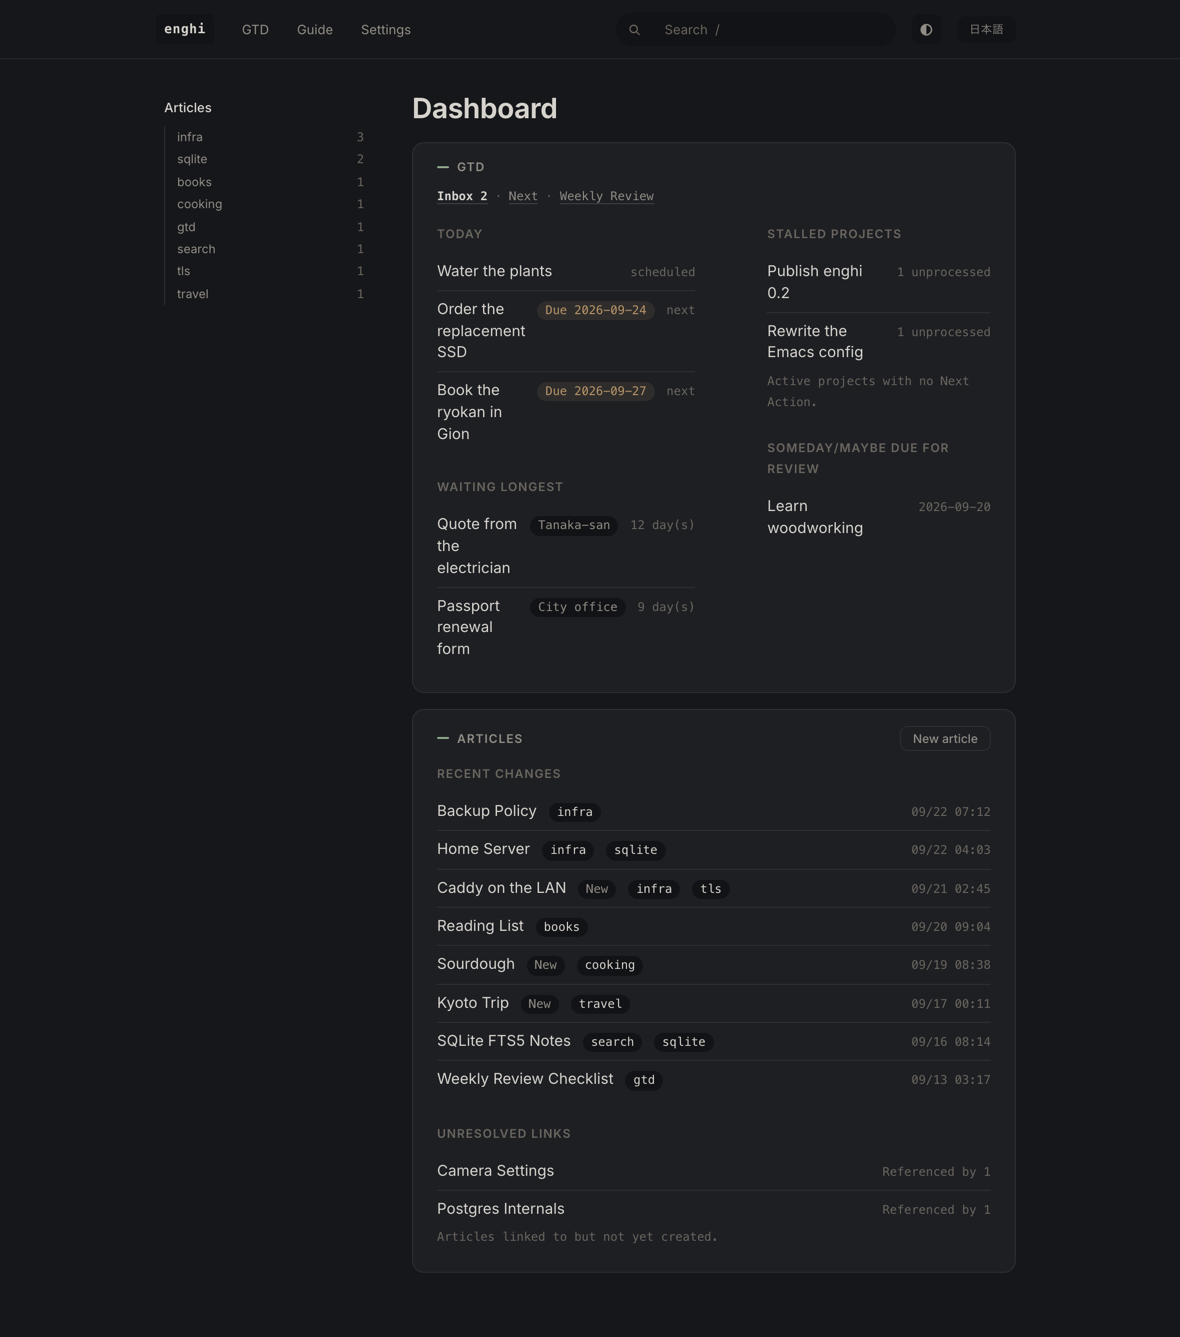
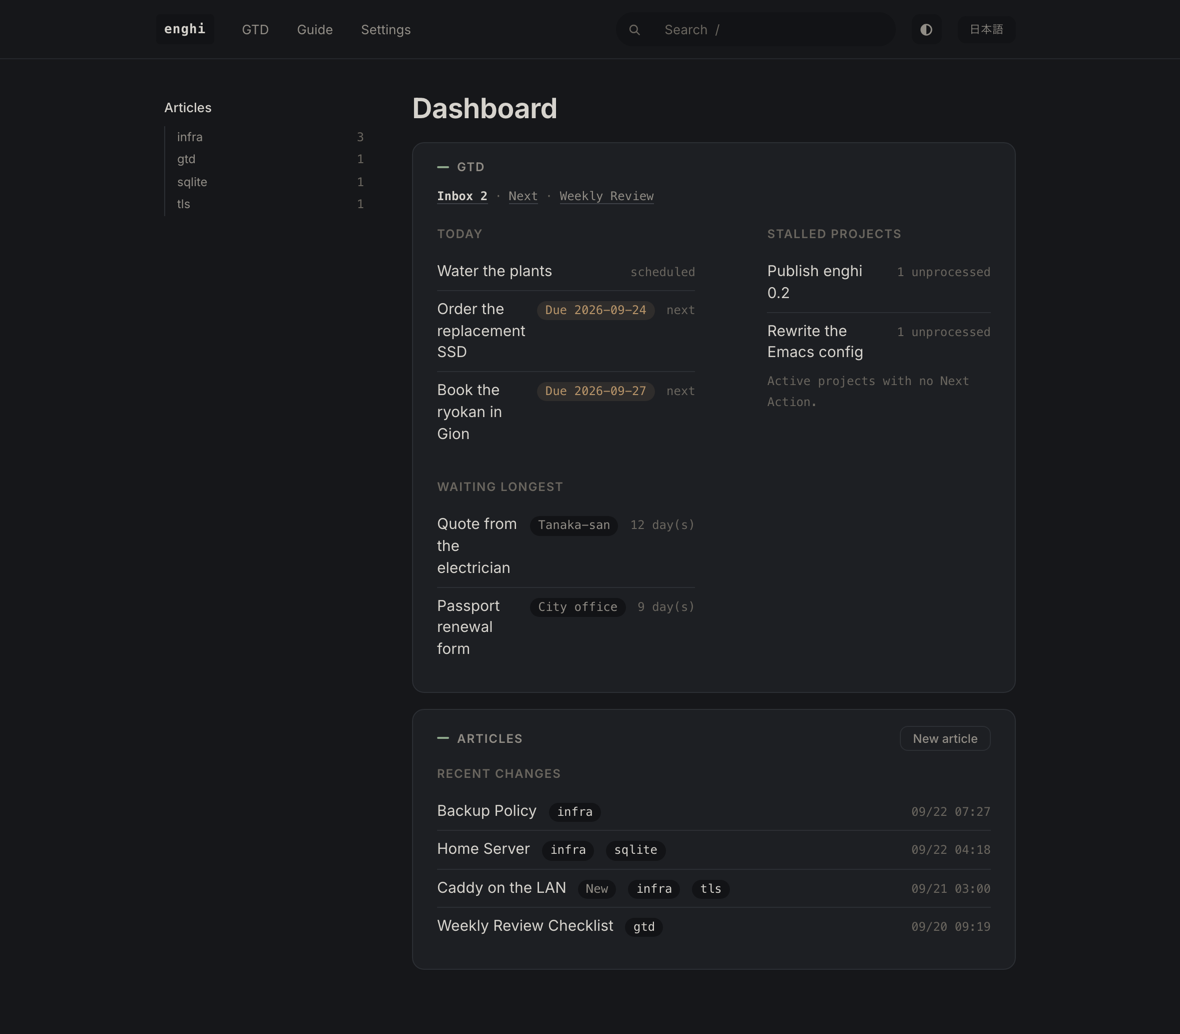
Dashboard: leave someday reviews to the review screen
A someday project whose review date has come is not something to act on
today - it is a weekly review item, and /gtd/review already lists it
from the same query. On the dashboard it only sat there between
reviews, so the block goes, and with it the field and the query behind
it. The dashboard now reads as today's work on the left, what is
rotting on the right.

The README screenshots are retaken with a smaller wiki, so the recent
changes list stays a glance rather than a list.

diff --git a/web/templates/dashboard.html b/web/templates/dashboard.html
@@ -62,18 +62,6 @@
           <div class="meta">{{t "dash.stalled_note"}}</div>
           {{else}}<div class="empty">{{t "common.empty"}}</div>{{end}}
         </div>
-
-        {{if $d.GTD.SomedayDueReview}}
-        <div class="col-block">
-          <div class="subhead">{{t "dash.someday_due"}}</div>
-          <ul class="rows">
-            {{range $d.GTD.SomedayDueReview}}
-            <li><a href="/gtd/project/{{.ID}}">{{.Title}}</a>
-                <span class="when">{{.ReviewOn}}</span></li>
-            {{end}}
-          </ul>
-        </div>
-        {{end}}
       </div>
     </div>
   {{else}}

diff --git a/internal/web/dashboard.go b/internal/web/dashboard.go
@@ -28,8 +28,6 @@ type GTDSummary struct {
 	StalledProjects []*gtd.Project `json:"stalled_projects"`
 	// 5. Waiting-for items delegated more than a few days ago (7 by default)
 	WaitingOverdue []*gtd.Task `json:"waiting_overdue"`
-	// 6. Someday projects whose review date has come
-	SomedayDueReview []*gtd.Project `json:"someday_due_review"`
 
 	Enabled bool `json:"enabled"` // whether there is any GTD data at all
 }
@@ -99,9 +97,6 @@ func (s *Server) dashboardData(ctx context.Context) (*Dashboard, error) {
 		return nil, err
 	}
 	if d.GTD.WaitingOverdue, err = s.gtd.WaitingOverdue(ctx, 7); err != nil {
-		return nil, err
-	}
-	if d.GTD.SomedayDueReview, err = s.gtd.SomedayDueReview(ctx); err != nil {
 		return nil, err
 	}
 	return d, nil

diff --git a/internal/i18n/ja.go b/internal/i18n/ja.go
@@ -51,7 +51,6 @@ func init() {
 		"dash.waiting_long":    "長く待っている項目",
 		"dash.stalled":         "停滞している Project",
 		"dash.stalled_note":    "Next Action が1つも無い active な Project。",
-		"dash.someday_due":     "再検討期日を迎えた Someday",
 		"dash.articles":        "記事",
 		"dash.recent_changes":  "最近の変更",
 		"dash.new":             "新規",

diff --git a/internal/i18n/en.go b/internal/i18n/en.go
@@ -51,7 +51,6 @@ func init() {
 		"dash.waiting_long":    "Waiting longest",
 		"dash.stalled":         "Stalled projects",
 		"dash.stalled_note":    "Active projects with no Next Action.",
-		"dash.someday_due":     "Someday/Maybe due for review",
 		"dash.articles":        "Articles",
 		"dash.recent_changes":  "Recent changes",
 		"dash.new":             "New",
